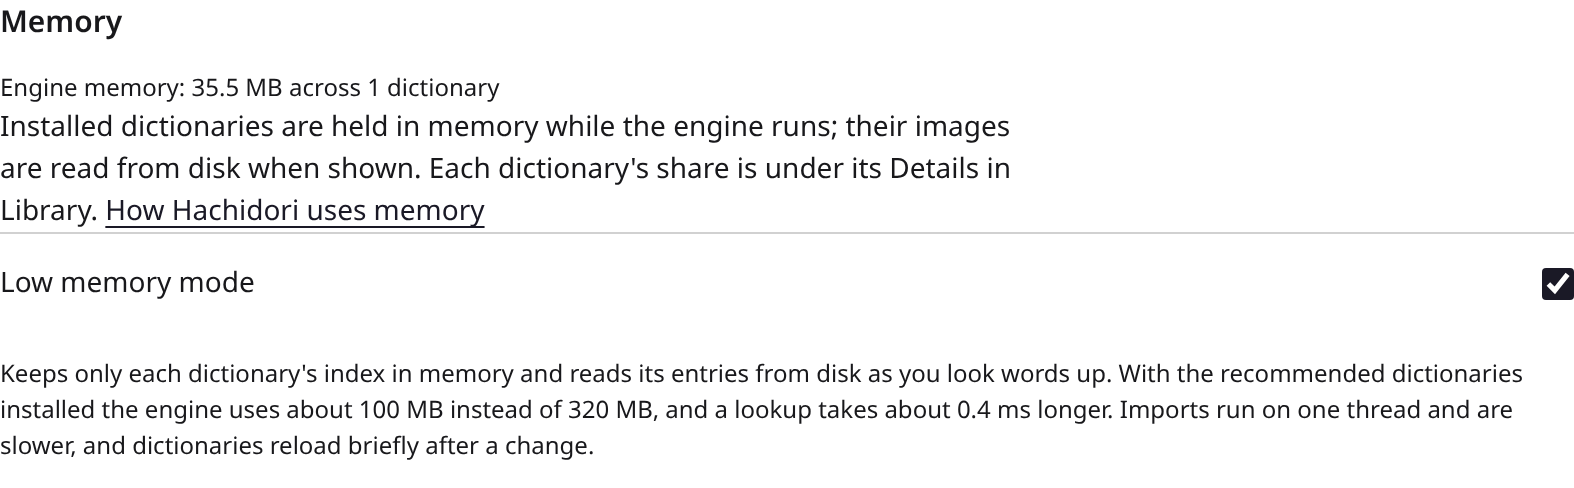
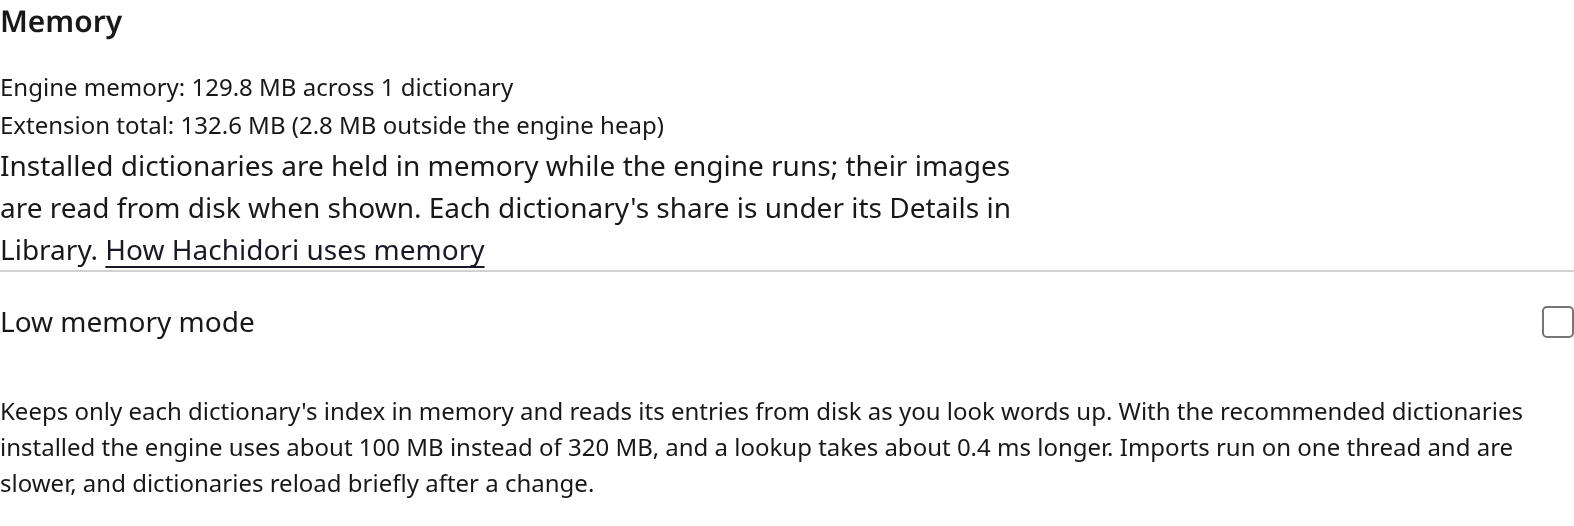
Show the extension total in the Memory screenshot (#400)

diff --git a/docs/memory.md b/docs/memory.md
@@ -74,7 +74,7 @@ including those, so its *Extension: Hachidori* row is normally larger than the
 extension total; the operating system's figures are larger still because they
 count the browser's shared libraries in every process.
 
-![Settings → Advanced → Memory with the engine total and the Low memory mode switch](assets/memory-settings.png)
+![Settings → Advanced → Memory with the engine total, the extension total and the Low memory mode switch](assets/memory-settings.png)
 
 Each row in Library shows *In memory: ≈ Y MB* under **Details**: that
 package's resident files as described above. A package whose entries are read
